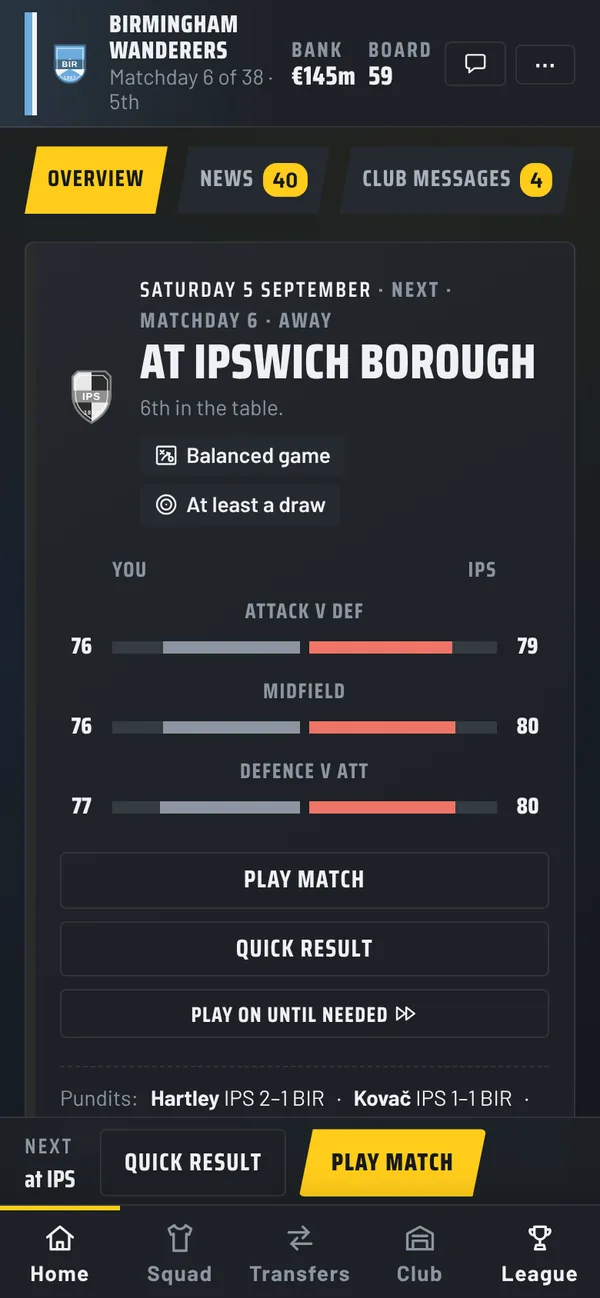
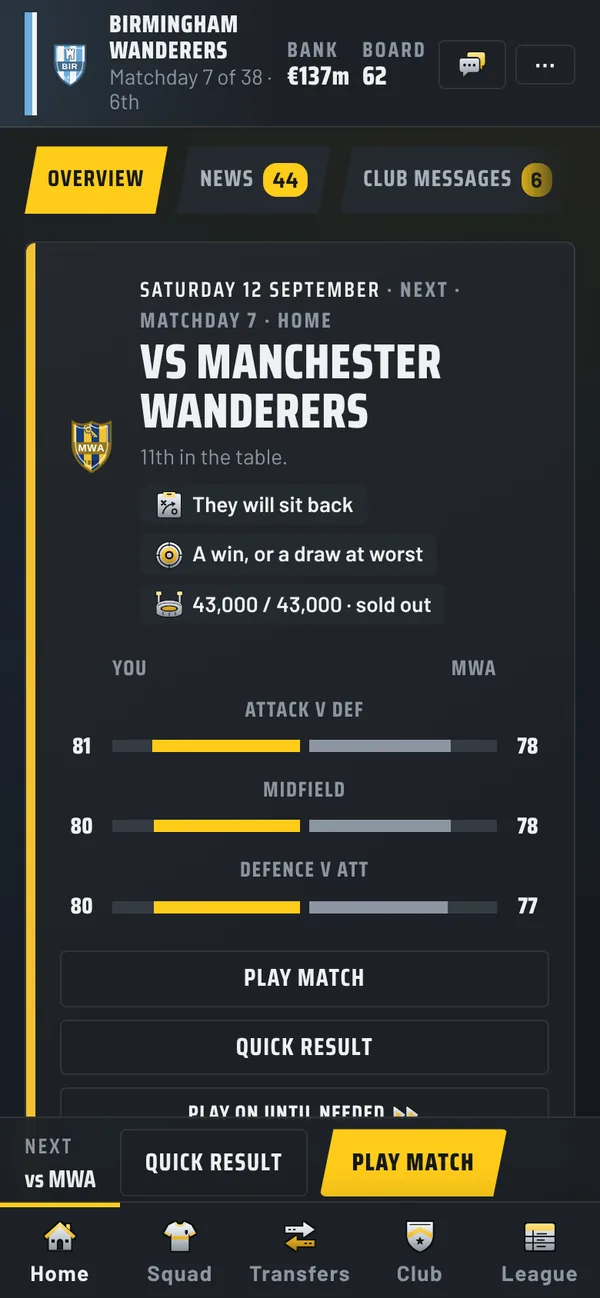
0.0.56.0 on the site: updates entry and new-look screenshots
- Updates: 0.0.56.0 at the top (the build line's entry), so the list now runs 0.0.48.0 to 0.0.56.0.
- How it plays today: five new screenshots in the new look (a goal, Home, the table, the team and the
  new History page, which replaces the ground).
- The art section now says the crests, plates and icons are in the game.

Claude-Session: https://claude.ai/code/session_01WT7iYB53ErZzqFNLxaACJG

diff --git a/index.html b/index.html
@@ -240,19 +240,19 @@ footer a { display: inline-block; padding-block: 14px; margin-block: -14px; }
     <section class="sec" aria-labelledby="shots-h">
       <p class="label">In the game</p>
       <h2 id="shots-h">How it plays today</h2>
-      <p>Screens from the game as it is now, on a phone. Tap one to see it bigger. A new look is on its way, so these will change.</p>
+      <p>Screens from the game as it is now, in its new look, on a phone. Tap one to see it bigger.</p>
       <ul class="shots" tabindex="0" aria-label="Screenshots of the game">
-        <li><a href="shots/match.webp"><img src="shots/match.webp" width="600" height="1298" loading="lazy" decoding="async" alt="The live match on a phone: 1-0 after 25 minutes, with GOAL! over the pitch."></a><span>A goal on match night</span></li>
-        <li><a href="shots/home.webp"><img src="shots/home.webp" width="600" height="1298" loading="lazy" decoding="async" alt="The Home screen: the next match, away at Ipswich Borough, with both sides compared in attack, midfield and defence."></a><span>Your next match at a glance</span></li>
-        <li><a href="shots/table.webp"><img src="shots/table.webp" width="600" height="1298" loading="lazy" decoding="async" alt="The league table after five matches, with arrows for the clubs that moved up or down."></a><span>The Premier Division table</span></li>
+        <li><a href="shots/match.webp"><img src="shots/match.webp" width="600" height="1298" loading="lazy" decoding="async" alt="The live match on a phone: GOAL! over the pitch as the away side go 1-0 up after 11 minutes."></a><span>A goal on match night</span></li>
+        <li><a href="shots/home.webp"><img src="shots/home.webp" width="600" height="1298" loading="lazy" decoding="async" alt="The Home screen: the next match, at home to Manchester Wanderers, with both sides compared in attack, midfield and defence."></a><span>Your next match at a glance</span></li>
+        <li><a href="shots/table.webp"><img src="shots/table.webp" width="600" height="1298" loading="lazy" decoding="async" alt="The league table after six matches, with arrows for the clubs that moved up or down."></a><span>The Premier Division table</span></li>
         <li><a href="shots/team.webp"><img src="shots/team.webp" width="600" height="1298" loading="lazy" decoding="async" alt="The Team screen: a 4-4-2 on the pitch, with the approach set to Balanced."></a><span>Pick the team and the approach</span></li>
-        <li><a href="shots/ground.webp"><img src="shots/ground.webp" width="600" height="1298" loading="lazy" decoding="async" alt="The Ground and tickets screen: the stadium drawn from above, with its capacity and last crowd."></a><span>Your ground and its stands</span></li>
+        <li><a href="shots/history.webp"><img src="shots/history.webp" width="600" height="1298" loading="lazy" decoding="async" alt="The club&#x27;s History page: its honours, with the last time each was won, and its all-time records."></a><span>Your club&#x27;s honours and records</span></li>
       </ul>
     </section>
     <section class="sec" aria-labelledby="art-h">
       <p class="label">The new look</p>
       <h2 id="art-h">Crests, trophies and icons</h2>
-      <p>New art on its way into the game. Every club gets a crest in its own colours, with an emblem from its town, and the trophies and icons get an engraved finish.</p>
+      <p>Now in the game: every club has a crest in its own colours, with an emblem from its town, and the trophies and icons have an engraved finish.</p>
 <!-- made by make_art.js from the approved art; do not edit by hand -->
 <svg width="0" height="0" style="position:absolute" aria-hidden="true"><defs><linearGradient id="mn-silver" gradientUnits="userSpaceOnUse" x1="0" y1="2" x2="0" y2="30"><stop offset="0" stop-color="#ffffff"/><stop offset=".55" stop-color="#c3cad3"/><stop offset="1" stop-color="#7f8994"/></linearGradient><linearGradient id="mn-gold" gradientUnits="userSpaceOnUse" x1="0" y1="2" x2="0" y2="30"><stop offset="0" stop-color="#fff0a0"/><stop offset=".5" stop-color="#f0bb2c"/><stop offset="1" stop-color="#a06c08"/></linearGradient></defs></svg>
       <h3 class="art-h">Club crests</h3>
@@ -274,7 +274,8 @@ footer a { display: inline-block; padding-block: 14px; margin-block: -14px; }
       <h2 id="upd-h">The last 10 versions</h2>
       <p>Every version of the game in development, newest first. Open one to see what it added, changed and fixed.</p>
       <div class="upds">
-        <details class="upd" open><summary><span class="uver">0.0.55.0</span><span class="umeta"><time datetime="2026-10-14">14 October 2026</time><span>3 added · 1 changed · 3 fixed</span></span></summary><div class="ubody"><div class="ugroup"><h4>Added</h4><ul><li>Your assistant can loan out a well-paid spare player to make room for a signing when the club is over its spending limit.</li><li>Below the Premier Division, a club over its spending limit may replace a player who leaves with one who costs no more, as real leagues allow.</li><li>Older free agents with no club at home can sign for the rich leagues abroad, the way real stars end their careers.</li></ul></div><div class="ugroup"><h4>Changed</h4><ul><li>Play on until needed shows its screen at once and each result as it is played.</li></ul></div><div class="ugroup"><h4>Fixed</h4><ul><li>Starting keepers no longer slowly creep above the rest of the team over long careers.</li><li>Pressing Enter or Space during a quick result, Play on or the summer screen can no longer play anything twice.</li><li>A player whose contract ends in the summer can no longer be loaned out or loaned in that window.</li></ul></div></div></details>
+        <details class="upd" open><summary><span class="uver">0.0.56.0</span><span class="umeta"><time datetime="2026-10-15">15 October 2026</time><span>4 added · 3 changed · 4 fixed</span></span></summary><div class="ubody"><div class="ugroup"><h4>Added</h4><ul><li>Every page now has one clear home: your fixtures under Home, contracts under Squad, loans under Transfers, and your club&#x27;s history under Club.</li><li>New history pages show your club&#x27;s honours and records, and the past winners of every league, cup and award.</li><li>A transfer lock: a player who has just joined a club has to wait until the next transfer window has passed before he can move again.</li><li>All-new club crests, kits with patterns and stripes, more trophy plates and a new set of icons.</li></ul></div><div class="ugroup"><h4>Changed</h4><ul><li>Seasons are named like 2026/27 everywhere.</li><li>Each competition shows its last winners at the top of its page.</li><li>The leagues abroad are picked from one list.</li></ul></div><div class="ugroup"><h4>Fixed</h4><ul><li>Players signed in the summer no longer retire before the season starts.</li><li>A club can no longer sign back a player it has just let go.</li><li>The tips now match the page they appear on.</li><li>Contract buttons fit on small phones.</li></ul></div></div></details>
+        <details class="upd"><summary><span class="uver">0.0.55.0</span><span class="umeta"><time datetime="2026-10-14">14 October 2026</time><span>3 added · 1 changed · 3 fixed</span></span></summary><div class="ubody"><div class="ugroup"><h4>Added</h4><ul><li>Your assistant can loan out a well-paid spare player to make room for a signing when the club is over its spending limit.</li><li>Below the Premier Division, a club over its spending limit may replace a player who leaves with one who costs no more, as real leagues allow.</li><li>Older free agents with no club at home can sign for the rich leagues abroad, the way real stars end their careers.</li></ul></div><div class="ugroup"><h4>Changed</h4><ul><li>Play on until needed shows its screen at once and each result as it is played.</li></ul></div><div class="ugroup"><h4>Fixed</h4><ul><li>Starting keepers no longer slowly creep above the rest of the team over long careers.</li><li>Pressing Enter or Space during a quick result, Play on or the summer screen can no longer play anything twice.</li><li>A player whose contract ends in the summer can no longer be loaned out or loaned in that window.</li></ul></div></div></details>
         <details class="upd"><summary><span class="uver">0.0.54.0</span><span class="umeta"><time datetime="2026-10-14">14 October 2026</time><span>3 added · 2 changed · 3 fixed</span></span></summary><div class="ubody"><div class="ugroup"><h4>Added</h4><ul><li>Young players grow faster: a big talent who plays every week reaches most of his potential by 19 or 20.</li><li>One young player in ten stops short of his potential, and his player card hints at it.</li><li>Good free agents find new clubs, and your pre-season list shows everyone released, so you can sign one first.</li></ul></div><div class="ugroup"><h4>Changed</h4><ul><li>Clubs keep players rated 80 or more when their deals end, unless they are injury-prone or hot-headed.</li><li>New keepers start a little lower, so they stay level with the rest of the team as they grow.</li></ul></div><div class="ugroup"><h4>Fixed</h4><ul><li>List headings sit over their columns in the squad list and Find players.</li><li>On a computer, the bottom of the team pitch no longer hides behind the Continue bar.</li><li>A club can no longer release a player and sign him back the same summer.</li></ul></div></div></details>
         <details class="upd"><summary><span class="uver">0.0.53.0</span><span class="umeta"><time datetime="2026-10-14">14 October 2026</time><span>3 added · 2 changed · 2 fixed</span></span></summary><div class="ubody"><div class="ugroup"><h4>Added</h4><ul><li>The game is called Matchnight, on the title screen, in the menu and in saved files.</li><li>New pictures: classic shield crests in club colours, players shown by the back of their shirt, and engraved trophy plates.</li><li>With the assistant switched on, he signs a better player for a weak spot when the team is behind the board&#x27;s target.</li></ul></div><div class="ugroup"><h4>Changed</h4><ul><li>English clubs keep fresher squads: shorter deals from 29, and new signings aged 21 to 24.</li><li>The Premier Division pulls in more of the world&#x27;s stars.</li></ul></div><div class="ugroup"><h4>Fixed</h4><ul><li>Clubs abroad no longer make stars out of nothing each summer.</li><li>Taking a summer job at a club going up from the National League no longer breaks the Home screen.</li></ul></div></div></details>
         <details class="upd"><summary><span class="uver">0.0.52.0</span><span class="umeta"><time datetime="2026-10-14">14 October 2026</time><span>1 added · 4 changed · 2 fixed</span></span></summary><div class="ubody"><div class="ugroup"><h4>Added</h4><ul><li>Fixed squad numbers: the first team wears 1 to 11, everyone else 12 upwards, and a signing takes the lowest free number.</li></ul></div><div class="ugroup"><h4>Changed</h4><ul><li>Ratings look like football cards: everything shows 10 higher, so the world&#x27;s best are around 90.</li><li>Every club has a squad of 23 to 25 players.</li><li>Premier Division clubs pay real Premier Division wages, and every wage rises evenly with a player&#x27;s rating.</li><li>Wages are the biggest cost at every club, so a well-run club makes money.</li></ul></div><div class="ugroup"><h4>Fixed</h4><ul><li>A few screens still showed the old grade letters.</li><li>On the team screen, the energy bar no longer runs past its shirt.</li></ul></div></div></details>
@@ -283,7 +284,6 @@ footer a { display: inline-block; padding-block: 14px; margin-block: -14px; }
         <details class="upd"><summary><span class="uver">0.0.49.0</span><span class="umeta"><time datetime="2026-10-13">13 October 2026</time><span>5 added · 4 changed · 3 fixed</span></span></summary><div class="ubody"><div class="ugroup"><h4>Added</h4><ul><li>An optional assistant who handles the squad: fair bids, short positions, youth day and key contracts.</li><li>Home warns how many defeats away the sack is, and which positions are short of players.</li><li>Food kiosks, bars, shop stalls and hospitality boxes at your ground, each with a price level.</li><li>Keyboard shortcuts on a computer: Space for the next step, 1 to 5 for the main tabs, Esc to go back.</li><li>Before you sell a player, the game shows who takes his place and how your best team changes.</li></ul></div><div class="ugroup"><h4>Changed</h4><ul><li>Home shows one next step, what needs you and what happened since last week.</li><li>News and club messages show their headline first; tap to read the rest.</li><li>Find players opens straight on results, and the squad list is one row a player.</li><li>League has five tabs: Tables, Cups, Europe, World and Stats.</li></ul></div><div class="ugroup"><h4>Fixed</h4><ul><li>Two clubs no longer meet twice within a few weeks around Boxing Day.</li><li>Ratings by position stay level over long careers.</li><li>The larger text sizes no longer squeeze names to nothing on a phone.</li></ul></div></div></details>
         <details class="upd"><summary><span class="uver">0.0.48.1</span><span class="umeta"><time datetime="2026-10-13">13 October 2026</time><span>2 fixed</span></span></summary><div class="ubody"><div class="ugroup"><h4>Fixed</h4><ul><li>Running costs no longer grow with your income, so a well-run club can make a profit again.</li><li>Bonuses and tax follow the wage bill, so wages are the cost you control.</li></ul></div></div></details>
         <details class="upd"><summary><span class="uver">0.0.48.0</span><span class="umeta"><time datetime="2026-10-13">13 October 2026</time><span>2 added · 4 changed · 2 fixed</span></span></summary><div class="ubody"><div class="ugroup"><h4>Added</h4><ul><li>A home advantage: home sides now win nearly half their matches.</li><li>The titles and cups each club wins in your career appear in its honours.</li></ul></div><div class="ugroup"><h4>Changed</h4><ul><li>Money at real sizes in every division: incomes, wages and crowds follow real clubs of each size.</li><li>Wages follow a player&#x27;s quality, with a top wage for each division.</li><li>Computer clubs keep a healthier age mix, and players retire from 33.</li><li>Club flags show only in European and world club cup results.</li></ul></div><div class="ugroup"><h4>Fixed</h4><ul><li>The golden boot story names the season&#x27;s top scorer in the last week.</li><li>A new career started in the same session no longer keeps the last career&#x27;s growth pace.</li></ul></div></div></details>
-        <details class="upd"><summary><span class="uver">0.0.47.0</span><span class="umeta"><time datetime="2026-10-12">12 October 2026</time><span>2 added · 4 changed · 1 fixed</span></span></summary><div class="ubody"><div class="ugroup"><h4>Added</h4><ul><li>Ratings are coloured by your division: green above the average starter, grey around it, amber below.</li><li>The game saves in the background at the moments that matter, so it never stops to save.</li></ul></div><div class="ugroup"><h4>Changed</h4><ul><li>Keepers, defenders, midfielders and forwards of the same quality now have the same rating.</li><li>Clear steps in strength between the divisions, and computer clubs keep sensible squads.</li><li>Best value in Find players counts the good seasons a player has left.</li><li>Saves are about half the size.</li></ul></div><div class="ugroup"><h4>Fixed</h4><ul><li>A club relegated from the Premier Division could escape its fine for overspending.</li></ul></div></div></details>
       </div>
     </section>
   </main>
